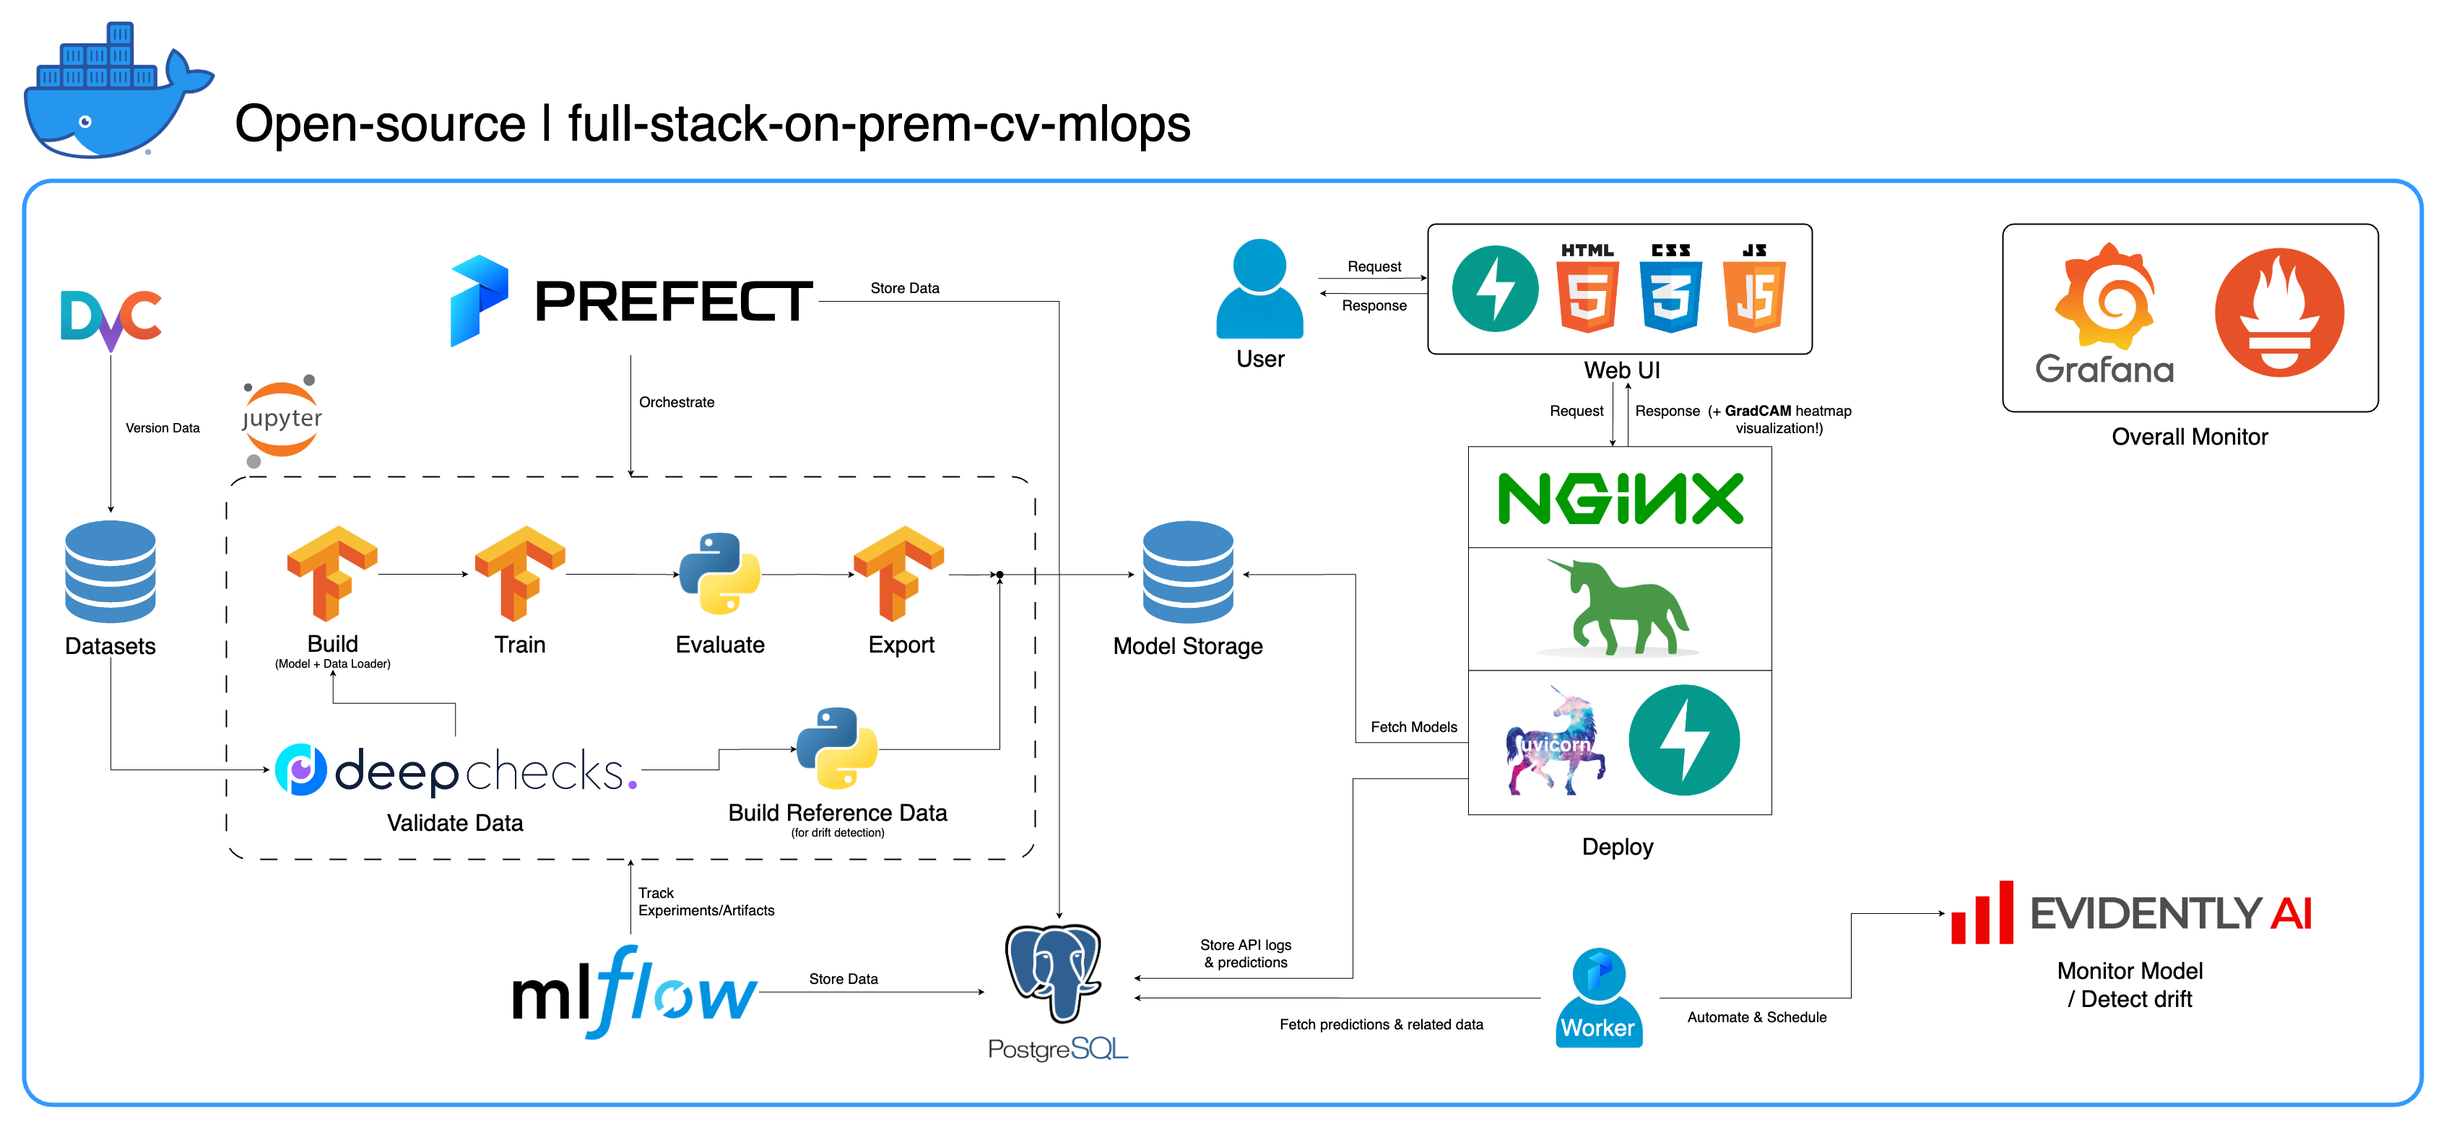
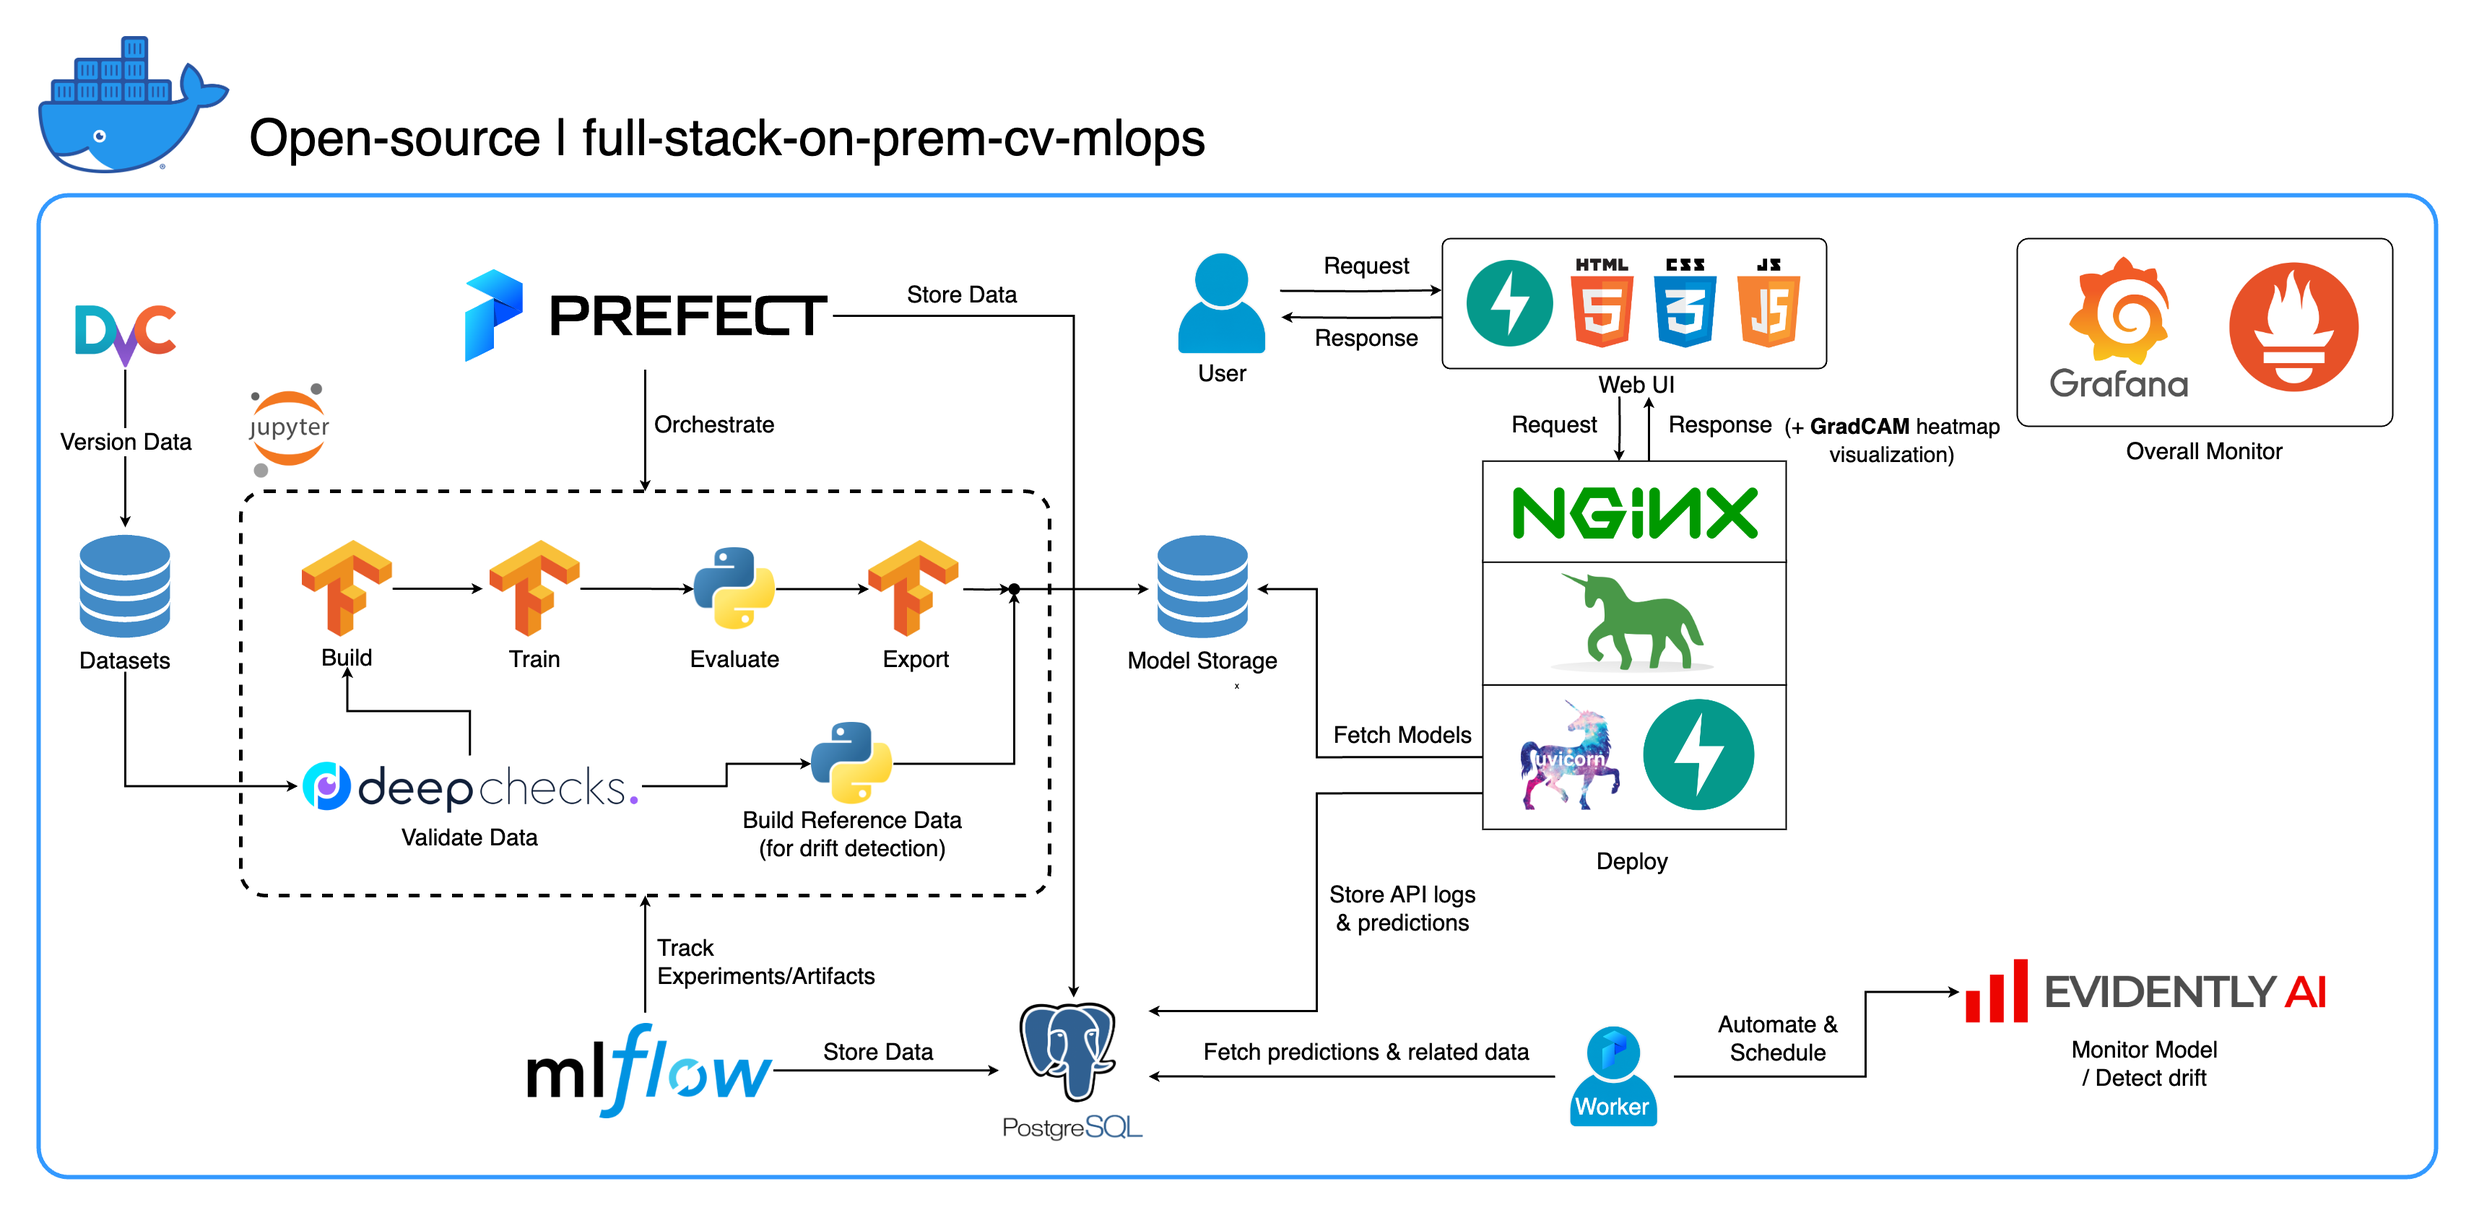
Improved diagram & fixed grammar

diff --git a/README.md b/README.md
@@ -2,6 +2,20 @@
 
 <p align="center"><b> ▶ 1 config, 1 command from Jupyter Notebook to serve Millions of users ◀ </b></p>  
 
+# Table of contents
+- [Overview](#overview)
+- [Demo videos](#demo-videos)
+- [Tools / Technologies](#tools--technologies)
+- [Adopted practices](#adopted-practices)
+- [Service ports](#service-ports)
+- [How to use](#how-to-use)
+  - [Setup](#setup)
+  - [Minimal usage](#minimal-usage)
+  - [Customization](#customization)
+- [How everything works together](#how-everything-works-together)
+- [From On-Premises to On-Cloud](#from-on-premises-to-on-cloud)
+- [DB schemas](#db-schemas)
+
 # Overview
 Welcome to our comprehensive on-premises MLOps ecosystem designed specifically for Computer Vision tasks, with a primary focus on image classification. This repository equips you with everything you need, from a development workspace in Jupyter Lab/Notebook to production-level services. The best part? It only takes **"1 config and 1 command"** to run the whole system from building the model to deployment! We've integrated numerous best practices to ensure scalability and reliability while maintaining flexibility. While our primary use case revolves around image classification, our project structure can easily adapt to a wide range of ML/DL developments, even transitioning from on-premises to cloud!
 
@@ -9,14 +23,15 @@ Another goal is to show how to integrate all these tools and make them work toge
 
 The entire system is containerized into a single Docker Compose file. To set it up, all you have to do is run `docker-compose up`! This is a fully on-premises system, which means no need for a cloud account, and it **won't cost you a dime** to use the entire system!
 
-We highly recommend watching the demo videos in the **Demo videos** section to get a comprehensive overview and understand how to apply this system to your projects. These videos contain important details that might be too-long-and-not-clear-enough to covered here.
+We highly recommend watching the demo videos in the **Demo videos** section to get a comprehensive overview and understand how to apply this system to your projects. These videos contain important details that might be too long and not clear enough to cover here.
 
 <image src="./files/software_diagram.png">
 
 # Demo videos
 Demo: https://youtu.be/NKil4uzmmQc  
-In-dept technical walkthrough: https://youtu.be/l1S5tHuGBA8  
-### Resources in the video:
+In-depth technical walkthrough: https://youtu.be/l1S5tHuGBA8  
+
+Resources in the video:
 - Model files (ResNet50-based models): [link](https://drive.google.com/file/d/1HFCUCnrTm4MzfkfHtz8_ahh_sVro4qXR/view?usp=sharing)
 - Slide: [link](https://docs.google.com/presentation/d/1q5xJdu5v3QekB-1jlX7fC9-zTLLwhXSCBmsq8HMK-p4/edit?usp=sharing)
 
@@ -52,7 +67,7 @@ Most of the ports can be customized in the .env file at the root of this reposit
 - MLflow: 5050
 - Prefect: 4200
 - PostgreSQL: 5432
-- PGadmin: 16543 (user: `pgadmin@gmail.com`, pw: `SuperSecurePwdHere`)
+- pgAdmin: 16543 (user: `pgadmin@gmail.com`, pw: `SuperSecurePwdHere`)
 - Deep Learning service: 4242
 - Web UI interface for Deep Learning service: 4243
 - Nginx: 80
@@ -66,16 +81,16 @@ You have to consider comment those `platform: linux/arm64` lines in `docker-comp
 1. Clone this repo. There are 2 submodules in this repo, so consider using `--recurse-submodules` flag in your command: `git clone --recurse-submodules https://github.com/jomariya23156/full-stack-on-prem-cv-mlops`
 2. **[For users with CUDA]** If you have CUDA-compatible GPU(s), you can uncomment `deploy` section under `jupyter` service in `docker-compose.yml` and change the base image in `services/jupyter/Dockerfile` from `ubuntu:18.04` to `nvidia/cuda:11.4.3-cudnn8-devel-ubuntu20.04` (the text is there in the file, you just need to comment and uncomment) to leverage your GPU(s). You might also need to install `nvidia-container-toolkit` on the host machine to make it work. For Windows/WSL2 users, we found [this article](https://medium.com/htc-research-engineering-blog/nvidia-docker-on-wsl2-f891dfe34ab) very helpful.
 3. At the root of the repo directory, run `docker-compose up` or `docker-compose up -d` to detach the terminal.
-4. On the first time, it can take a while due to the size of images, especially jupyter image since it contains a lot of packages and libraries. Generally, it can take from 5 up to 20 minutes.
-5. Go to the DvC submodule at `datasets/animals10-dvc` and follow steps in the **How to use** section.
+4. On the first time, it can take a while due to the size of images, especially for jupyter since it contains a lot of packages and libraries. Generally, it can take from 5 to 20 minutes.
+5. Go to the DvC submodule at `datasets/animals10-dvc` and follow the steps in the **How to use** section.
 ## Minimal usage
 1. Open the Jupyter lab on port 8888 `http://localhost:8888/lab`
 2. Go to the workspace directory `cd ~/workspace/`
 3. Activate the conda environment (the name is configurable in `docker-compose.yml`) `conda activate computer-viz-dl`
 4. Run `python run_flow.py --config configs/full_flow_config.yaml`
-5. Sit back and watch your brand-new classifier is built, trained, evaluated, deployed (at scale), and monitored on a fully-operating system!
+5. Sit back and watch your brand-new classifier be built, trained, evaluated, deployed (at scale), and monitored on a fully operating system!
 ## Customization
-- There are a lot of things working together, and it's hard to talk into detail in every bit. There is no better way than getting your hands dirty aka read codes, try to understand, and try customizing it yourself!
+- There are a lot of things working together, and it's hard to talk into detail every bit. There is no better way than getting your hands dirty aka read codes, try to understand, and try customizing it yourself!
 - Anyways, there are some guidelines you can follow to make components work all together seamlessly as they should:
     - Your tasks should be created inside the `tasks` directory
     - All your tasks are supposed to be called from the flows which are created inside the `flows` directory
@@ -85,47 +100,47 @@ You have to consider comment those `platform: linux/arm64` lines in `docker-comp
     - `central_storage` at `~/ariya/` should contain at least 2 subdirectories named `models` and `ref_data`. This `central_storage` serves the object storage purpose of storing all staged files to be used across developing and deploying environments. (This is one of the things you could consider changing to a cloud storage service in case you want to deploy on-cloud and make it more scalable)
   
 **IMPORTANT** Conventions to be **SUPER EXTRA CAREFUL** if you want to change (because these things are tied and used in different parts of the system):
-  - `central_storage` path -> inside there should be `models/` `ref_data/` subdirectories
+  - `central_storage` path -> Inside there should be `models/` `ref_data/` subdirectories
   - File naming in central_storage e.g. `<model_name>.yaml`,  `<model_name>_uae`, `<model_name>_bbsd`, `<model_name>_ref_data.parquet`
   - All database schemas (columns) -> they are linked in many places (mainly dl_service, prefect_worker/repo, evidently)
   - Key/Name of Prefect Variables `current_model_metadata_file` and `monitor_pool_name`
   - Prefect version 2.13.2, there are bugs in templating prefect.yaml file and they got fixed in this version. So if not necessary, don’t go below this version otherwise, you need to make changes to Prefect-related files.
-  - Evidently version 0.4.5, the mmd’s bug, which we uses as a method for embedding drift detection, got fixed in this version. Again if you want to change the version, try not to go below 0.4.5.
+  - Evidently version 0.4.5, the mmd’s bug, which we use as a method for embedding drift detection, was fixed in this version. Again if you want to change the version, try not to go below 0.4.5.
 
 # How everything works together
 - **Jupyter Lab** serves as your workspace for coding. It includes a pre-installed Conda environment named `computer-viz-dl` (default value), with all the required packages for this repository. All the Python commands/codes are supposed to be run within this Jupyter.
 - **Prefect** orchestrates all main execution codes, including tasks and flows.
 - The `central_storage` volume acts as the central file storage used throughout development and deployment. It mainly contains model files (including drift detectors) and reference data in Parquet format. At the end of the model training step, new models are saved here, and the deployment service pulls models from this location. (*Note*: This is an ideal place to replace with cloud storage services for scalability.)
-- These are the step-by-step explanation of what happen when you run the full flow. The full comprises of 3 subflows; train, evaluate, deploy running sequentially. Each flow has its own set of config file, it can be a dedicated .yaml file for each flow or it can be only 1 .yaml file for the full flow (take a look at files in *config* folder):
+- These are the step-by-step explanations of what happens when you run the full flow. The full flow comprises of 3 subflows; train, evaluate, and deploy running sequentially. Each flow has its own set of config files, it can be a dedicated .yaml file for each flow or it can be only 1 .yaml file for the full flow (take a look at files in the *config* folder):
     1. Train flow
        1. Read the config.
        2. Use the `model` section in the config to build a classifier model. The model is built with **TensorFlow** and its architecture is hardcoded at `tasks/model.py:build_model`.
        3. Use the `dataset` section in the config to prepare a dataset for training. **DvC** is used in this step to check the consistency of the data in the disk compared with the version specified in the config. If there are changes, it converts it back to the specified version programmatically. If you want to keep the changes, in case you're experimenting with the dataset, you can set `dvc_checkout` field in the config to *false* so that DvC won't do its things.
-       4. **DeepChecks** then validates the prepared dataset and save the result report. You can add some conditions in this step. For example, if some serious tests fail, terminate the process so that it doesn't train a bad model.
-       5. Use the `train` section in the config to build a data loader and start the training process. Experiments info and artifacts are tracked and logged with **MLflow**. Note: the result report (in *.html* file) from DeepChecks is also uploaded to the training experiment on MLflow for convention.
+       4. **DeepChecks** then validates the prepared dataset and saves the result report. You can add some conditions in this step. For example, if some serious tests fail, terminate the process so that it doesn't train a bad model.
+       5. Use the `train` section in the config to build a data loader and start the training process. Experiment info and artifacts are tracked and logged with **MLflow**. Note: the result report (in a *.html* file) from DeepChecks is also uploaded to the training experiment on MLflow for the convention.
        6. Build the model metadata file from the `model` section in the config.
-       7. Save the trained model and its corresponding metadata file to local disk.
+       7. Save the trained model and its corresponding metadata file to the local disk.
        8. Upload the model and model metadata files to `central_storage` (in this case, it's just making a copy to `central_storage` location. This is the step you can change to uploading files to cloud storage)
        9. Build drift detectors based on the trained model and the `model/drift_detection` section in the config.
        10. Save and upload the drift detectors to `central_storage`.
-       11. Generate a reference data using the drift detectors and the dataset.
+       11. Generate reference data using the drift detectors and the dataset.
        12. Save the reference data in *.parquet* and upload it to `central_storage`.
-       13. Return the path to uploaded models and model metadata file for the next flow.
+       13. Return the path to the uploaded models and model metadata file for the next flow.
     2. Evaluation flow
-       1. Load saved models and model metadata file.
+       1. Load saved models and model metadata files.
        2. Prepare a dataset for testing (reuse the same task as in train flow)
        3. Build a data loader from the config and evaluate the model 
        4. Log the results to **MLflow**
     3. Deployment flow
        1. *PUT* request to trigger the running service (served with **FastAPI** + **Uvicorn** + **Gunicorn** + **Nginx**) to fetch the newly trained model from `central_storage`. (this is one concern discussed in the tutorial demo video, watch it for more detail)
-       2. Create or update, if's already existed, Prefect variables for monitoring configuration. Mainly 2 variables which are `current_model_metadata_file` storing model metadata file name ended with *.yaml* and `monitor_pool_name` storing the work pool name for deploying Prefect worker and flows.
-       3. Deploy the Prefect monitor flow which internally fetches the data from **PostgreSQL** and uses **Evidently** to compute data drift related reports and metrcs. Programmatically `cd` into `deployments/prefect-deployments` and run `prefect --no-prompt deploy --name {deploy_name}` using inputs from the `deploy/prefect` section in the config.
-       4. The monitor flow is schedule to run weekly aka once a week. But you can run the deployed flow manually from Prefect UI. Check out their official doc on how to do this (pretty simple and straight forward)
+       2. Create or update, if existed, Prefect variables for monitoring configuration. Mainly 2 variables which are `current_model_metadata_file` storing model metadata file name ended with *.yaml* and `monitor_pool_name` storing the work pool name for deploying Prefect worker and flows.
+       3. Deploy the Prefect monitor flow which internally fetches the data from **PostgreSQL** and uses **Evidently** to compute data drift-related reports and metrcs. Programmatically `cd` into `deployments/prefect-deployments` and run `prefect --no-prompt deploy --name {deploy_name}` using inputs from the `deploy/prefect` section in the config.
+       4. The monitor flow is scheduled to run weekly aka once a week. But you can run the deployed flow manually from Prefect UI. Check out their official doc on how to do this (pretty simple and straightforward)
        5. You can also view the data drift dashboard on Evidently UI (port 8000, by default)
 
 # From On-Premises to On-Cloud
-Since everything is already dockerized and containerized in this repo, converting the service from on-prem to on-cloud is pretty much straightforward. When you finish developing and testing your service API, you can just spin off *services/dl_service* by building the container from its Dockerfile, and push it to a cloud container registry service (AWS ECR, for an example). That's it!  
-**Note:** There is one potential problem in the service code if you want to use it in a real production environment. I have addressed it in the [in-depth video]() and I recommend you to spend some time on watching the whole video.  
+Since everything is already dockerized and containerized in this repo, converting the service from on-prem to on-cloud is pretty straightforward. When you finish developing and testing your service API, you can just spin off *services/dl_service* by building the container from its Dockerfile, and push it to a cloud container registry service (AWS ECR, for example). That's it!  
+**Note:** There is one potential problem in the service code if you want to use it in a real production environment. I have addressed it in the [in-depth video]() and I recommend you to spend some time watching the whole video.  
 <img src="./files/prem-to-cloud.png" width=600px height=300px>
 
 # DB schemas
@@ -133,6 +148,6 @@ We have three databases inside PostgreSQL: one for MLflow, one for Prefect, and 
 
 To avoid overwhelming complexity, we've kept it simple with only two tables. The relationships and attributes are shown in the ERD below. Essentially, we aim to store essential details about incoming requests and our service's responses. All these tables are created and manipulated automatically, so you don't need to worry about manual setup.
 
-Noteworthy: `input_img`, `raw_hm_img`, and `overlaid_img` are base64-encoded images stored as string. `uae_feats` and `bbsd_feats` are arrays of embedding features for our drift detection algorithms.
+Noteworthy: `input_img`, `raw_hm_img`, and `overlaid_img` are base64-encoded images stored as strings. `uae_feats` and `bbsd_feats` are arrays of embedding features for our drift detection algorithms.
 
 <img src="./files/dl_service_erd.png">
